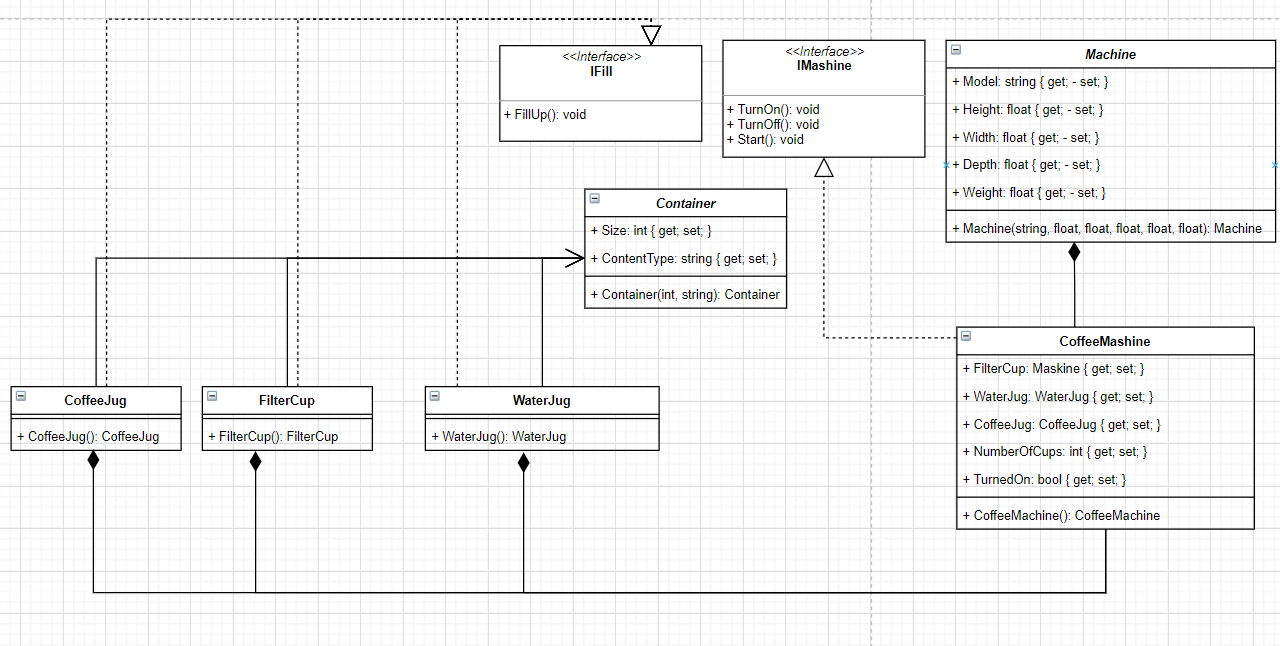
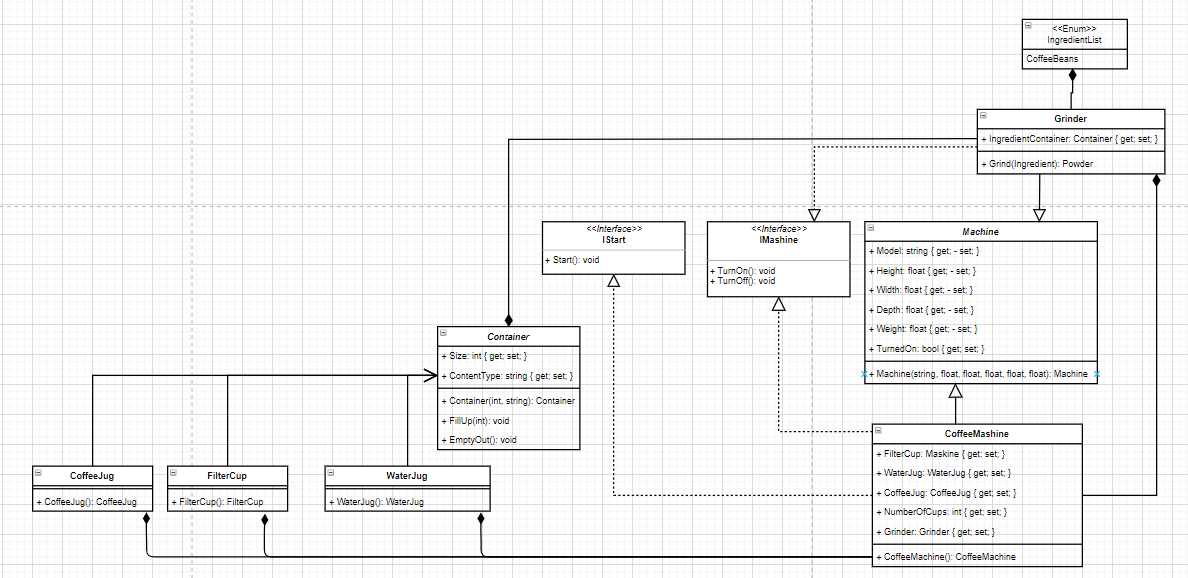
Made some changes to the struckture

diff --git a/KaffeMaskinen Del1/DataClasses/CoffeeMachine.cs b/KaffeMaskinen Del1/DataClasses/CoffeeMachine.cs
@@ -6,15 +6,8 @@ using System.Text;
 namespace KaffeMaskinen.DataClasses
 {
     //This class is responsible for 
-    class CoffeeMachine : Machine, IMachine
+    class CoffeeMachine : Machine, IPower
     {
-        private bool turnedOn;
-        public bool TurnedOn
-        {
-            get { return turnedOn; }
-            set { turnedOn = value; }
-        }
-
         private CoffeeJug coffeeJug;
         public CoffeeJug CoffeeJug
         {
@@ -36,21 +29,33 @@ namespace KaffeMaskinen.DataClasses
             set { waterJug = value; }
         }
 
-        public CoffeeMachine(string model, float height, float width, float depth, float weight, WaterJug waterJug, CoffeeJug coffeeJug, FilterCup filterCup) : base(model, height, width, depth, weight)
+        private Grinder grinder;
+
+        public Grinder Grinder
+        {
+            get { return grinder; }
+            set { grinder = value; }
+        }
+
+        public CoffeeMachine(string model, float height, float width, float depth, float weight, WaterJug waterJug, CoffeeJug coffeeJug, FilterCup filterCup, Grinder grinder) : base(model, height, width, depth, weight)
         {
             WaterJug = waterJug;
             CoffeeJug = coffeeJug;
             FilterCup = filterCup;
+            Grinder = grinder;
         }
         /// <summary>
         /// This method starts the coffeemachine if its turned on!
         /// </summary>
-        public void Start()
+        public void Start(int ingredient)
         {
-            if(TurnedOn == true)
+            if (TurnedOn == true)
             {
-                CoffeeJug.FillUp(WaterJug.Quantity);
+                Grinder.TurnOn();
+                FilterCup.ContentType = Grinder.Grind(ingredient).ToString();
+                CoffeeJug.FillUp(WaterJug.Quantity, FilterCup.ContentType);
             }
+            Grinder.TurnOff();
         }
         /// <summary>
         /// Turns on the power 

diff --git a/KaffeMaskinen Del1/DataClasses/Grinder.cs b/KaffeMaskinen Del1/DataClasses/Grinder.cs
@@ -1,0 +1,37 @@
+using KaffeMaskinen.Interface;
+using System;
+using System.Collections.Generic;
+using System.Text;
+
+namespace KaffeMaskinen.DataClasses
+{
+    public class Grinder : Machine, IPower
+    {
+        private IngredientContainer ingredientContainer;
+        public IngredientContainer IngredientContainer
+        {
+            get { return ingredientContainer; }
+            set { ingredientContainer = value; }
+        }
+
+        public Grinder(string model, float height, float width, float depth, float weight, IngredientContainer ingredientContainer) : base(model, height, width, depth, weight)
+        {
+            IngredientContainer = ingredientContainer;
+        }
+
+        public Powder Grind(int ingredient)
+        {
+            return new Powder((IngredientList)ingredient + " " + "Powder" );
+        }
+
+        public void TurnOff()
+        {
+            TurnedOn = false;
+        }
+
+        public void TurnOn()
+        {
+            TurnedOn = true;
+        }
+    }
+}

diff --git a/KaffeMaskinen Del1/Program.cs b/KaffeMaskinen Del1/Program.cs
@@ -7,14 +7,14 @@ namespace KaffeMaskinen
     {
         static void Main(string[] args)
         {
-            CoffeeMachine coffeeMachine = new CoffeeMachine("Hd10", 10, 10, 5, 5, new WaterJug(2), new CoffeeJug(2), new FilterCup(4));
+            CoffeeMachine coffeeMachine = new CoffeeMachine("Hd10", 10, 10, 5, 5, new WaterJug(2), new CoffeeJug(2), new FilterCup(4), new Grinder("Hd10", 2, 2, 5, 1, new IngredientContainer(2, "")));
 
             coffeeMachine.TurnOn();
-            coffeeMachine.WaterJug.FillUp(100);
-            coffeeMachine.FilterCup.FillUp(100);
-            coffeeMachine.Start();
+            coffeeMachine.WaterJug.FillUp(100, "Water");
+            coffeeMachine.Grinder.IngredientContainer.FillUp(100, "CoffeeBeans");
+            coffeeMachine.Start(0);
 
-
+            Console.WriteLine(coffeeMachine.CoffeeJug.ContentType.ToString() + " " + coffeeMachine.CoffeeJug.Quantity);
         }
     }
 }

diff --git a/KaffeMaskinen Del1/DataClasses/Machine.cs b/KaffeMaskinen Del1/DataClasses/Machine.cs
@@ -43,13 +43,22 @@ namespace KaffeMaskinen.DataClasses
             set { weight = value; }
         }
 
+        private bool turnedOn;
+
+        public bool TurnedOn
+        {
+            get { return turnedOn; }
+            set { turnedOn = value; }
+        }
+
         public Machine(string model, float height, float width, float depth, float weight)
         {
             Model = model;
             Height = height;
             Width = width;
             Depth = depth;
-            Weight = weight; 
+            Weight = weight;
+            TurnedOn = false;
         }
     }
 }

diff --git a/KaffeMaskinen Del1/DataClasses/Container.cs b/KaffeMaskinen Del1/DataClasses/Container.cs
@@ -34,14 +34,16 @@ namespace KaffeMaskinen.DataClasses
             ContentType = contentType;    
         }
 
-        public void FillUp(int quantity)
+        public void FillUp(int quantity, string contentType)
         {
             Quantity = quantity;
+            ContentType = contentType;
         }
 
         public void EmptyOut()
         {
             Quantity = 0;
+            ContentType = "";
         }
     }
 }

diff --git a/KaffeMaskinen Del1/DataClasses/Powder.cs b/KaffeMaskinen Del1/DataClasses/Powder.cs
@@ -1,0 +1,21 @@
+using System;
+using System.Collections.Generic;
+using System.Text;
+
+namespace KaffeMaskinen.DataClasses
+{
+    public class Powder
+    {
+        private string name;
+        public string Name
+        {
+            get { return name; }
+            set { name = value; }
+        }
+
+        public Powder(string name)
+        {
+            Name = name;
+        }
+    }
+}

diff --git a/KaffeMaskinen Del1/DataClasses/IngredientContainer.cs b/KaffeMaskinen Del1/DataClasses/IngredientContainer.cs
@@ -1,0 +1,13 @@
+using System;
+using System.Collections.Generic;
+using System.Text;
+
+namespace KaffeMaskinen.DataClasses
+{
+    public class IngredientContainer : Container
+    {
+        public IngredientContainer(int size, string contentType) : base(size, contentType)
+        {
+        }
+    }
+}

diff --git a/KaffeMaskinen Del1/Interface/IPower.cs b/KaffeMaskinen Del1/Interface/IPower.cs
@@ -1,0 +1,13 @@
+using System;
+using System.Collections.Generic;
+using System.Text;
+
+namespace KaffeMaskinen.Interface
+{
+    //This handles the machines main function
+    interface IPower
+    {
+        public void TurnOn();
+        public void TurnOff();
+    }
+}

diff --git a/KaffeMaskinen Del1/Interface/IStart.cs b/KaffeMaskinen Del1/Interface/IStart.cs
@@ -4,11 +4,8 @@ using System.Text;
 
 namespace KaffeMaskinen.Interface
 {
-    //This handles the machines main function
-    interface IMachine
+    interface IStart
     {
-        public void TurnOn();
-        public void TurnOff();
         public void Start();
     }
 }

diff --git a/BirdsFlyingAround_App/Interfaces/IFly.cs b/BirdsFlyingAround_App/Interfaces/IFly.cs
@@ -5,7 +5,7 @@ using System.Text;
 
 namespace BirdsFlyingAround_App.Interfaces
 {
-    interface IAltitude 
+    interface IFly 
     {
         public void SetAltitude(double longitude, double latitude); 
     }

diff --git a/BirdsFlyingAround_App/Date Classes/Pinguin.cs b/BirdsFlyingAround_App/Date Classes/Pinguin.cs
@@ -5,7 +5,7 @@ using System.Text;
 
 namespace BirdsFlyingAround_App.Date_Classes
 {
-    class Pinguin : Bird, IAltitude
+    class Pinguin : Bird, IFly
     {
         public override void Draw()
         {

diff --git a/KaffeMaskinen Del1/DataClasses/IngredientList.cs b/KaffeMaskinen Del1/DataClasses/IngredientList.cs
@@ -1,0 +1,12 @@
+using System;
+using System.Collections.Generic;
+using System.Text;
+
+namespace KaffeMaskinen.DataClasses
+{
+    public enum IngredientList
+    {
+        CoffeeBeans 
+    }
+}
+
